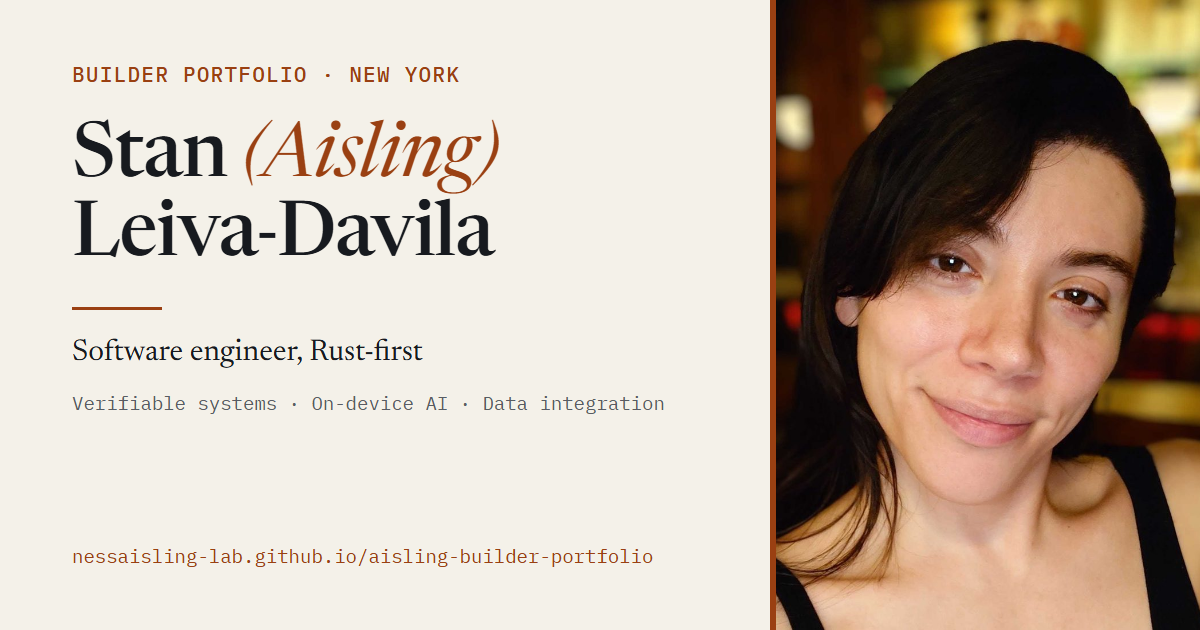
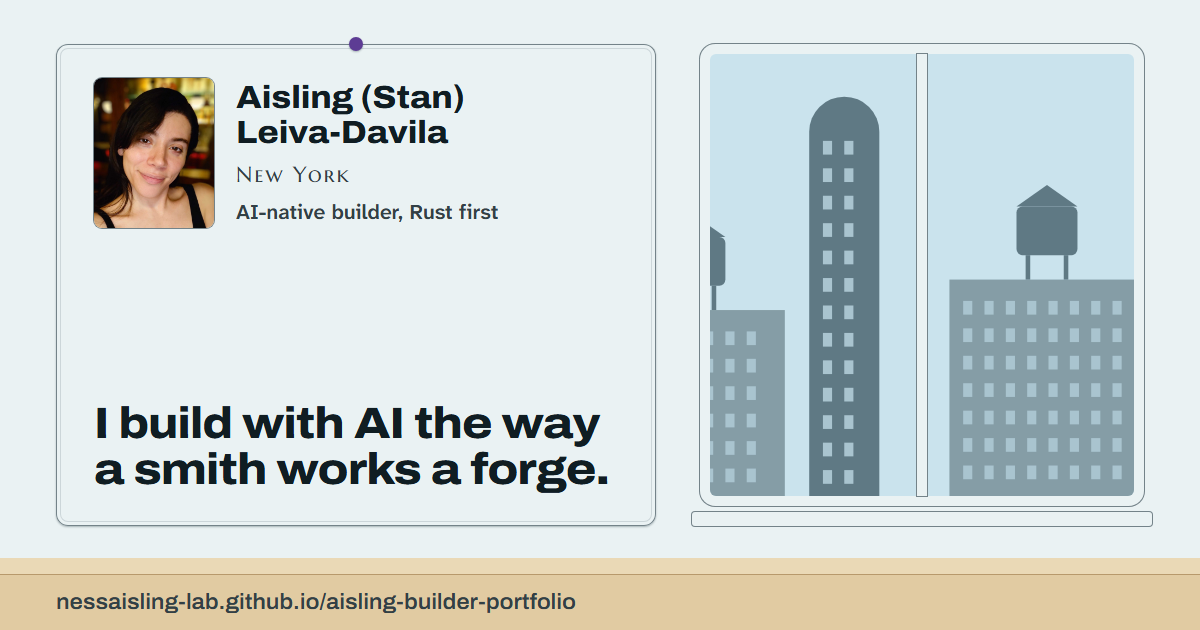
Link previews in the desk style, filled-button hover, tidy-ups
- tools/og-cards.mjs draws every link-preview card with the site's own
  built CSS (kit + site.css), facts and plate models from content.rs and
  the skyline from the built home page, so cards can't drift from the
  site. Site card: her wall card beside the window; name order and line
  match the site.
- Brand kit: filled buttons (primary, pressed) now change on hover,
  leaning toward ink so contrast rises in both themes. Copied from the
  rebuilt kit.
- Removed the unreferenced portrait-about images.
- DESIGN.md lists the evening colours, so the detector reads them as
  system colours; design.json and the surface brief record the verified
  Sumerian words and chosen plate models.

diff --git a/brand/ness.css b/brand/ness.css
@@ -2,9 +2,9 @@
 :root{--bg:oklch(0.955 0.008 210);--surface:oklch(0.99 0.004 210);--soft:oklch(0.925 0.014 205);--code-bg:oklch(0.935 0.01 210);--ink:oklch(0.22 0.02 225);--ink-2:oklch(0.36 0.02 225);--muted:oklch(0.47 0.018 225);--line:oklch(0.87 0.012 212);--line-strong:oklch(0.6 0.02 220);--accent:oklch(0.45 0.075 212);--accent-ink:oklch(0.99 0.004 210);--accent-deep:oklch(0.34 0.06 214);--ok:oklch(0.47 0.12 150);--ok-bg:oklch(0.955 0.03 150);--practice:oklch(0.5 0.11 65);--practice-bg:oklch(0.955 0.035 80);--risk:oklch(0.5 0.17 15);--risk-bg:oklch(0.955 0.02 15);--shadow:oklch(0.25 0.03 210 / .3);--scrim:oklch(0.12 0.02 210 / .72);--glaze-hi:oklch(1 0 0 / .75);--glaze-lo:oklch(0.45 0.075 212 / .13);--m-app:oklch(0.47 0.05 250);--m-core:oklch(0.45 0.07 335);--m-store:oklch(0.47 0.05 175);--m-run:oklch(0.47 0.06 300);--m-out:oklch(0.48 0.012 225);--m-person:oklch(0.36 0.012 225);--brass:oklch(0.79 0.12 88);--brass-deep:oklch(0.5 0.09 78);--enamel:oklch(0.44 0.14 298);--g-top:oklch(0.925 0.022 170);--g-grid:oklch(0.86 0.025 172);--base-t:oklch(0.5 0.03 214);--base-l:oklch(0.42 0.03 215);--base-r:oklch(0.34 0.03 216);--pave:oklch(0.975 0.008 190);--w-t:oklch(0.985 0.004 210);--w-l:oklch(0.93 0.01 210);--w-r:oklch(0.85 0.016 212);--roof-t:oklch(0.58 0.05 212);--roof-l:oklch(0.5 0.055 212);--roof-r:oklch(0.42 0.05 214);--glass:oklch(0.64 0.03 220);--door:oklch(0.36 0.03 220);--hl-wrong:#B42318;--hl-fixed:#0F7A49;--hl-action:#1D4ED8;--hl-new:#6D28D9;--hl-gap:#7F5900;--hl-context:#515863;--hl-was:#515863;--hl-improved:#0F7A49;--taxi-t:oklch(0.860 0.16 92);--taxi-l:oklch(0.770 0.16 92);--taxi-r:oklch(0.680 0.16 92);--fire-t:oklch(0.600 0.17 27);--fire-l:oklch(0.510 0.17 27);--fire-r:oklch(0.420 0.17 27);--brick-t:oklch(0.560 0.08 38);--brick-l:oklch(0.470 0.08 38);--brick-r:oklch(0.380 0.08 38);--steel-t:oklch(0.820 0.015 230);--steel-l:oklch(0.730 0.015 230);--steel-r:oklch(0.640 0.015 230);--asphalt-t:oklch(0.420 0.012 240);--asphalt-l:oklch(0.330 0.012 240);--asphalt-r:oklch(0.240 0.012 240);--leaf-t:oklch(0.620 0.11 145);--leaf-l:oklch(0.530 0.11 145);--leaf-r:oklch(0.440 0.11 145);--straw-t:oklch(0.840 0.12 88);--straw-l:oklch(0.750 0.12 88);--straw-r:oklch(0.660 0.12 88);--wood-t:oklch(0.560 0.07 62);--wood-l:oklch(0.470 0.07 62);--wood-r:oklch(0.380 0.07 62);--clay-t:oklch(0.680 0.09 48);--clay-l:oklch(0.590 0.09 48);--clay-r:oklch(0.500 0.09 48);--soil-t:oklch(0.420 0.05 55);--soil-l:oklch(0.330 0.05 55);--soil-r:oklch(0.240 0.05 55);--display:"Archivo", "Arial Narrow", "Helvetica Neue", Arial, sans-serif;--place:"Marcellus SC", Georgia, "Times New Roman", serif;--body:"Atkinson Hyperlegible Next", "Atkinson Hyperlegible", "Segoe UI", "Helvetica Neue", Arial, sans-serif;--mono:"Atkinson Hyperlegible Mono", ui-monospace, "Cascadia Mono", Consolas, monospace;--r-xs:4px;--r-s:8px;--r-m:12px;--r-l:16px;--r-pill:999px}
 @media (prefers-color-scheme:dark){:root:not([data-theme="light"]){--bg:oklch(0.2 0.02 200);--surface:oklch(0.245 0.022 200);--soft:oklch(0.27 0.026 198);--code-bg:oklch(0.28 0.02 200);--ink:oklch(0.95 0.008 200);--ink-2:oklch(0.86 0.012 200);--muted:oklch(0.75 0.014 200);--line:oklch(0.33 0.02 200);--line-strong:oklch(0.58 0.02 200);--accent:oklch(0.8 0.1 205);--accent-ink:oklch(0.2 0.02 200);--accent-deep:oklch(0.6 0.085 206);--ok:oklch(0.8 0.14 150);--ok-bg:oklch(0.27 0.04 150);--practice:oklch(0.82 0.13 70);--practice-bg:oklch(0.28 0.045 70);--risk:oklch(0.75 0.14 18);--risk-bg:oklch(0.28 0.05 15);--shadow:oklch(0.05 0.01 210 / .5);--scrim:oklch(0.12 0.02 210 / .72);--glaze-hi:oklch(1 0 0 / .09);--glaze-lo:oklch(0.8 0.1 205 / .07);--m-app:oklch(0.8 0.05 250);--m-core:oklch(0.8 0.07 335);--m-store:oklch(0.8 0.05 175);--m-run:oklch(0.8 0.06 300);--m-out:oklch(0.8 0.012 200);--m-person:oklch(0.9 0.008 200);--brass:oklch(0.88 0.07 95);--brass-deep:oklch(0.52 0.06 85);--enamel:oklch(0.5 0.14 300);--g-top:oklch(0.31 0.03 178);--g-grid:oklch(0.35 0.03 178);--base-t:oklch(0.22 0.02 205);--base-l:oklch(0.17 0.02 205);--base-r:oklch(0.14 0.02 205);--pave:oklch(0.4 0.02 190);--w-t:oklch(0.5 0.015 205);--w-l:oklch(0.42 0.018 205);--w-r:oklch(0.35 0.02 207);--roof-t:oklch(0.34 0.03 210);--roof-l:oklch(0.29 0.03 210);--roof-r:oklch(0.24 0.03 212);--glass:oklch(0.88 0.07 95);--door:oklch(0.2 0.02 210);--hl-wrong:#FF9C92;--hl-fixed:#5FD39B;--hl-action:#93B4FF;--hl-new:#C4A5FF;--hl-gap:#F0C24B;--hl-context:#B7BDC7;--hl-was:#B7BDC7;--hl-improved:#5FD39B;--taxi-t:oklch(0.671 0.16 92);--taxi-l:oklch(0.601 0.16 92);--taxi-r:oklch(0.530 0.16 92);--fire-t:oklch(0.468 0.17 27);--fire-l:oklch(0.398 0.17 27);--fire-r:oklch(0.328 0.17 27);--brick-t:oklch(0.437 0.08 38);--brick-l:oklch(0.367 0.08 38);--brick-r:oklch(0.296 0.08 38);--steel-t:oklch(0.640 0.015 230);--steel-l:oklch(0.569 0.015 230);--steel-r:oklch(0.499 0.015 230);--asphalt-t:oklch(0.328 0.012 240);--asphalt-l:oklch(0.257 0.012 240);--asphalt-r:oklch(0.187 0.012 240);--leaf-t:oklch(0.484 0.11 145);--leaf-l:oklch(0.413 0.11 145);--leaf-r:oklch(0.343 0.11 145);--straw-t:oklch(0.655 0.12 88);--straw-l:oklch(0.585 0.12 88);--straw-r:oklch(0.515 0.12 88);--wood-t:oklch(0.437 0.07 62);--wood-l:oklch(0.367 0.07 62);--wood-r:oklch(0.296 0.07 62);--clay-t:oklch(0.530 0.09 48);--clay-l:oklch(0.460 0.09 48);--clay-r:oklch(0.390 0.09 48);--soil-t:oklch(0.328 0.05 55);--soil-l:oklch(0.257 0.05 55);--soil-r:oklch(0.187 0.05 55);color-scheme:dark}}
 :root[data-theme="dark"]{--bg:oklch(0.2 0.02 200);--surface:oklch(0.245 0.022 200);--soft:oklch(0.27 0.026 198);--code-bg:oklch(0.28 0.02 200);--ink:oklch(0.95 0.008 200);--ink-2:oklch(0.86 0.012 200);--muted:oklch(0.75 0.014 200);--line:oklch(0.33 0.02 200);--line-strong:oklch(0.58 0.02 200);--accent:oklch(0.8 0.1 205);--accent-ink:oklch(0.2 0.02 200);--accent-deep:oklch(0.6 0.085 206);--ok:oklch(0.8 0.14 150);--ok-bg:oklch(0.27 0.04 150);--practice:oklch(0.82 0.13 70);--practice-bg:oklch(0.28 0.045 70);--risk:oklch(0.75 0.14 18);--risk-bg:oklch(0.28 0.05 15);--shadow:oklch(0.05 0.01 210 / .5);--scrim:oklch(0.12 0.02 210 / .72);--glaze-hi:oklch(1 0 0 / .09);--glaze-lo:oklch(0.8 0.1 205 / .07);--m-app:oklch(0.8 0.05 250);--m-core:oklch(0.8 0.07 335);--m-store:oklch(0.8 0.05 175);--m-run:oklch(0.8 0.06 300);--m-out:oklch(0.8 0.012 200);--m-person:oklch(0.9 0.008 200);--brass:oklch(0.88 0.07 95);--brass-deep:oklch(0.52 0.06 85);--enamel:oklch(0.5 0.14 300);--g-top:oklch(0.31 0.03 178);--g-grid:oklch(0.35 0.03 178);--base-t:oklch(0.22 0.02 205);--base-l:oklch(0.17 0.02 205);--base-r:oklch(0.14 0.02 205);--pave:oklch(0.4 0.02 190);--w-t:oklch(0.5 0.015 205);--w-l:oklch(0.42 0.018 205);--w-r:oklch(0.35 0.02 207);--roof-t:oklch(0.34 0.03 210);--roof-l:oklch(0.29 0.03 210);--roof-r:oklch(0.24 0.03 212);--glass:oklch(0.88 0.07 95);--door:oklch(0.2 0.02 210);--hl-wrong:#FF9C92;--hl-fixed:#5FD39B;--hl-action:#93B4FF;--hl-new:#C4A5FF;--hl-gap:#F0C24B;--hl-context:#B7BDC7;--hl-was:#B7BDC7;--hl-improved:#5FD39B;--taxi-t:oklch(0.671 0.16 92);--taxi-l:oklch(0.601 0.16 92);--taxi-r:oklch(0.530 0.16 92);--fire-t:oklch(0.468 0.17 27);--fire-l:oklch(0.398 0.17 27);--fire-r:oklch(0.328 0.17 27);--brick-t:oklch(0.437 0.08 38);--brick-l:oklch(0.367 0.08 38);--brick-r:oklch(0.296 0.08 38);--steel-t:oklch(0.640 0.015 230);--steel-l:oklch(0.569 0.015 230);--steel-r:oklch(0.499 0.015 230);--asphalt-t:oklch(0.328 0.012 240);--asphalt-l:oklch(0.257 0.012 240);--asphalt-r:oklch(0.187 0.012 240);--leaf-t:oklch(0.484 0.11 145);--leaf-l:oklch(0.413 0.11 145);--leaf-r:oklch(0.343 0.11 145);--straw-t:oklch(0.655 0.12 88);--straw-l:oklch(0.585 0.12 88);--straw-r:oklch(0.515 0.12 88);--wood-t:oklch(0.437 0.07 62);--wood-l:oklch(0.367 0.07 62);--wood-r:oklch(0.296 0.07 62);--clay-t:oklch(0.530 0.09 48);--clay-l:oklch(0.460 0.09 48);--clay-r:oklch(0.390 0.09 48);--soil-t:oklch(0.328 0.05 55);--soil-l:oklch(0.257 0.05 55);--soil-r:oklch(0.187 0.05 55);color-scheme:dark}
-:root[data-contrast="high"]{--ink:oklch(0.12 0.01 225);--ink-2:oklch(0.2 0.015 225);--muted:oklch(0.27 0.015 225);--line:oklch(0.55 0.015 220);--line-strong:oklch(0.3 0.015 220);--accent:oklch(0.32 0.08 212)}
-@media (prefers-color-scheme:dark){:root[data-contrast="high"]:not([data-theme="light"]){--ink:oklch(0.99 0.002 200);--ink-2:oklch(0.95 0.006 200);--muted:oklch(0.9 0.008 200);--line:oklch(0.62 0.015 200);--line-strong:oklch(0.85 0.01 200);--accent:oklch(0.88 0.09 205)}}
-:root[data-theme="dark"][data-contrast="high"]{--ink:oklch(0.99 0.002 200);--ink-2:oklch(0.95 0.006 200);--muted:oklch(0.9 0.008 200);--line:oklch(0.62 0.015 200);--line-strong:oklch(0.85 0.01 200);--accent:oklch(0.88 0.09 205)}
+:root[data-contrast="high"]{--ink:oklch(0.12 0.01 225);--ink-2:oklch(0.2 0.015 225);--muted:oklch(0.27 0.015 225);--line:oklch(0.55 0.015 220);--line-strong:oklch(0.3 0.015 220);--accent:oklch(0.32 0.08 212);--ok:oklch(0.416 0.114 150);--practice:oklch(0.434 0.097 65);--risk:oklch(0.447 0.17 15);--hl-wrong:oklch(0.429 0.174 30);--hl-fixed:oklch(0.397 0.095 156);--hl-action:oklch(0.423 0.217 264);--hl-new:oklch(0.439 0.241 293);--hl-gap:oklch(0.411 0.085 80);--hl-context:oklch(0.408 0.02 259);--hl-was:oklch(0.408 0.02 259);--hl-improved:oklch(0.397 0.095 156)}
+@media (prefers-color-scheme:dark){:root[data-contrast="high"]:not([data-theme="light"]){--ink:oklch(0.99 0.002 200);--ink-2:oklch(0.95 0.006 200);--muted:oklch(0.9 0.008 200);--line:oklch(0.62 0.015 200);--line-strong:oklch(0.85 0.01 200);--accent:oklch(0.88 0.09 205);--ok:oklch(0.8 0.14 150);--practice:oklch(0.82 0.13 70);--risk:oklch(0.785 0.125 18);--hl-wrong:oklch(0.836 0.09 26);--hl-fixed:oklch(0.811 0.134 160);--hl-action:oklch(0.826 0.087 258);--hl-new:oklch(0.834 0.099 302);--hl-gap:#F0C24B;--hl-context:oklch(0.827 0.016 261);--hl-was:oklch(0.827 0.016 261);--hl-improved:oklch(0.811 0.134 160)}}
+:root[data-theme="dark"][data-contrast="high"]{--ink:oklch(0.99 0.002 200);--ink-2:oklch(0.95 0.006 200);--muted:oklch(0.9 0.008 200);--line:oklch(0.62 0.015 200);--line-strong:oklch(0.85 0.01 200);--accent:oklch(0.88 0.09 205);--ok:oklch(0.8 0.14 150);--practice:oklch(0.82 0.13 70);--risk:oklch(0.785 0.125 18);--hl-wrong:oklch(0.836 0.09 26);--hl-fixed:oklch(0.811 0.134 160);--hl-action:oklch(0.826 0.087 258);--hl-new:oklch(0.834 0.099 302);--hl-gap:#F0C24B;--hl-context:oklch(0.827 0.016 261);--hl-was:oklch(0.827 0.016 261);--hl-improved:oklch(0.811 0.134 160)}
 [data-kind="wrong"]{--k:var(--hl-wrong)}[data-kind="fixed"]{--k:var(--hl-fixed)}[data-kind="action"]{--k:var(--hl-action)}[data-kind="new"]{--k:var(--hl-new)}[data-kind="gap"]{--k:var(--hl-gap)}[data-kind="context"]{--k:var(--hl-context)}[data-kind="was"]{--k:var(--hl-was)}[data-kind="improved"]{--k:var(--hl-improved)}[data-scope="exact"]{--scope:solid;--glow:1}[data-scope="affected"]{--scope:dashed;--glow:0}[data-scope="related"]{--scope:dotted;--glow:0}[data-scope="added"]{--scope:double;--glow:1}[data-scope="open"]{--scope:solid;--glow:0}.nb-iso .taxit{fill:var(--taxi-t)}.nb-iso .taxil{fill:var(--taxi-l)}.nb-iso .taxir{fill:var(--taxi-r)}.nb-iso .firet{fill:var(--fire-t)}.nb-iso .firel{fill:var(--fire-l)}.nb-iso .firer{fill:var(--fire-r)}.nb-iso .brickt{fill:var(--brick-t)}.nb-iso .brickl{fill:var(--brick-l)}.nb-iso .brickr{fill:var(--brick-r)}.nb-iso .steelt{fill:var(--steel-t)}.nb-iso .steell{fill:var(--steel-l)}.nb-iso .steelr{fill:var(--steel-r)}.nb-iso .asphaltt{fill:var(--asphalt-t)}.nb-iso .asphaltl{fill:var(--asphalt-l)}.nb-iso .asphaltr{fill:var(--asphalt-r)}.nb-iso .leaft{fill:var(--leaf-t)}.nb-iso .leafl{fill:var(--leaf-l)}.nb-iso .leafr{fill:var(--leaf-r)}.nb-iso .strawt{fill:var(--straw-t)}.nb-iso .strawl{fill:var(--straw-l)}.nb-iso .strawr{fill:var(--straw-r)}.nb-iso .woodt{fill:var(--wood-t)}.nb-iso .woodl{fill:var(--wood-l)}.nb-iso .woodr{fill:var(--wood-r)}.nb-iso .clayt{fill:var(--clay-t)}.nb-iso .clayl{fill:var(--clay-l)}.nb-iso .clayr{fill:var(--clay-r)}.nb-iso .soilt{fill:var(--soil-t)}.nb-iso .soill{fill:var(--soil-l)}.nb-iso .soilr{fill:var(--soil-r)}
 /* Components. Every color comes from a token, so light, dark and high contrast all follow. */
 
@@ -33,6 +33,8 @@ html { font-size: calc(100% * var(--text-scale)) }
 .nb-btn { font: 700 1rem/1.2 var(--body); min-height: 44px; padding: 0 18px; border-radius: var(--r-pill); border: 1.5px solid var(--accent); background: var(--surface); color: var(--accent); cursor: pointer; box-shadow: var(--rim) }
 .nb-btn:hover { background: var(--soft) }
 .nb-btn[aria-pressed="true"], .nb-btn.is-primary { background: var(--accent); color: var(--accent-ink) }
+/* Filled buttons answer hover too: the fill leans toward ink, which raises its contrast with accent-ink in both themes. */
+.nb-btn[aria-pressed="true"]:hover, .nb-btn.is-primary:hover { background: color-mix(in oklab, var(--accent) 82%, var(--ink)) }
 .nb-btn:disabled { border-color: var(--line-strong); color: var(--muted); cursor: not-allowed }
 
 /* ---- Numbered plate: the brand's way of choosing a thing ---- */

diff --git a/DESIGN.md b/DESIGN.md
@@ -26,6 +26,31 @@ colors:
   city: "#859DA6"
   city-2: "#5F7984"
   pane: "#A9C4CF"
+  bg-evening: "oklch(0.2 0.02 200)"
+  surface-evening: "oklch(0.245 0.022 200)"
+  soft-evening: "oklch(0.27 0.026 198)"
+  code-bg-evening: "oklch(0.28 0.02 200)"
+  ink-evening: "oklch(0.95 0.008 200)"
+  ink-2-evening: "oklch(0.86 0.012 200)"
+  muted-evening: "oklch(0.75 0.014 200)"
+  line-evening: "oklch(0.33 0.02 200)"
+  line-strong-evening: "oklch(0.58 0.02 200)"
+  accent-evening: "oklch(0.8 0.1 205)"
+  accent-ink-evening: "oklch(0.2 0.02 200)"
+  ok-evening: "oklch(0.8 0.14 150)"
+  risk-evening: "oklch(0.75 0.14 18)"
+  brass-deep-evening: "oklch(0.52 0.06 85)"
+  enamel-evening: "oklch(0.5 0.14 300)"
+  asphalt-r-evening: "oklch(0.187 0.012 240)"
+  desk-face-evening: "#3B3121"
+  desk-top-evening: "#312718"
+  desk-front-evening: "#271D10"
+  desk-cut-evening: "#62533C"
+  sky-evening: "#1B2A3C"
+  city-evening: "#0E1C28"
+  city-2-evening: "#08131C"
+  lit-evening: "#E6D8A3"
+  unlit-evening: "#162633"
 typography:
   display:
     fontFamily: "Archivo, Arial Narrow, Helvetica Neue, Arial, sans-serif"

diff --git a/.impeccable/surfaces/site-src-main-rs.md b/.impeccable/surfaces/site-src-main-rs.md
@@ -31,6 +31,7 @@ FINISH: unreviewed and undocumented is unfinished; this build ends with the fini
 ## Open decisions
 
 - Headline and story wording: draft, to talk through with Aisling.
-- Sumerian words (dub-sar, ki-en-gi, kin, e2-dub-ba, giš-ḫur): verify each against a source before shipping.
-- Which models from the kit Library stand on the plates; ASCILINE loader; sound control placement.
+- Sumerian words: verified Nov 11 (dub-sar scribe, ki-en-gi Sumer, kin work as the older reading of kiĝ₂, é-dub-ba tablet house; ePSD2 via Wiktionary). giš-ḫur is unused.
+- Plate models chosen by Aisling Nov 11: tent (Gala), radio (Resona), cone (SiteAssure), ripe wheat for Spica (Ziqpu).
+- Still open: ASCILINE loader; sound control placement.
 - Worlds for Projects (garage or factory), Experience, Integrations, School: ask as each is reached.
